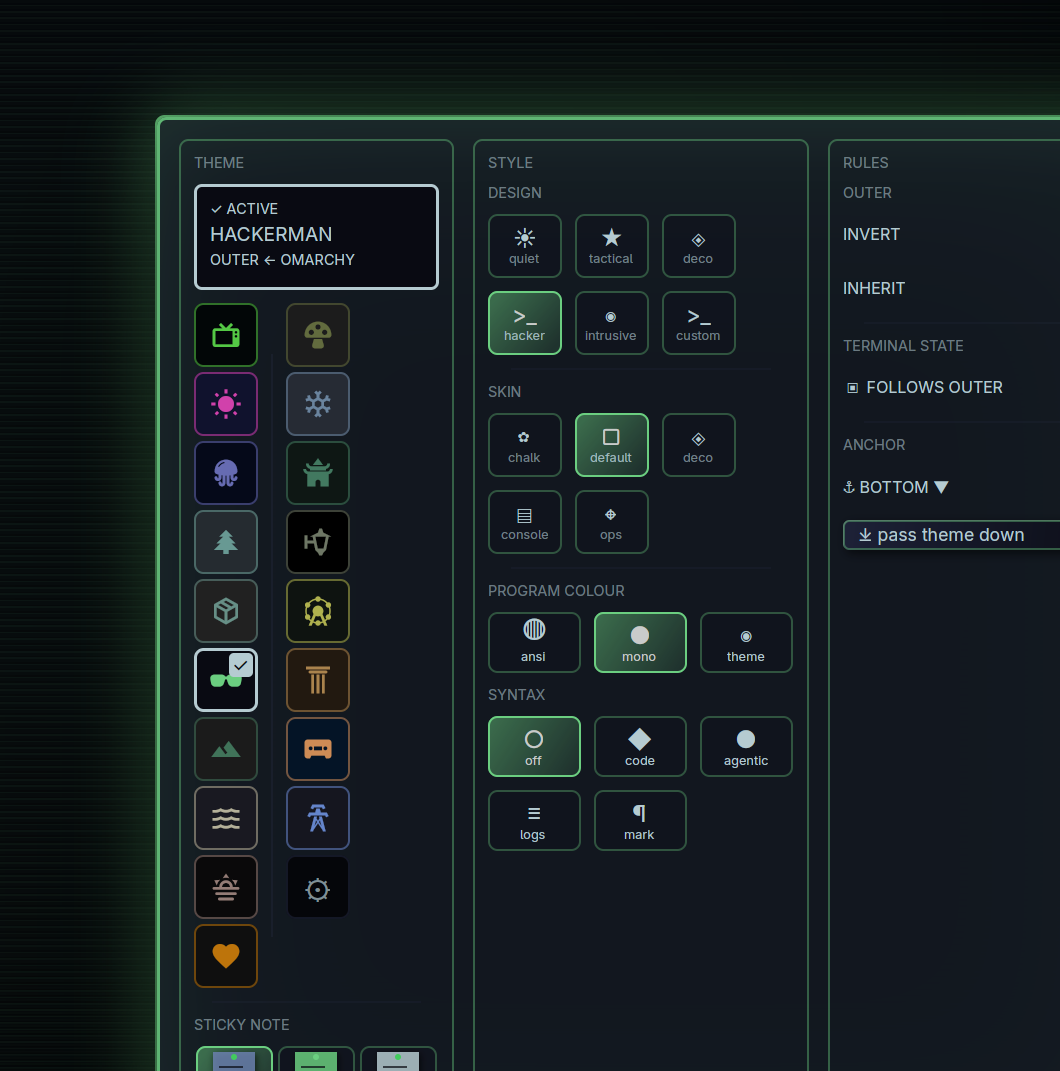
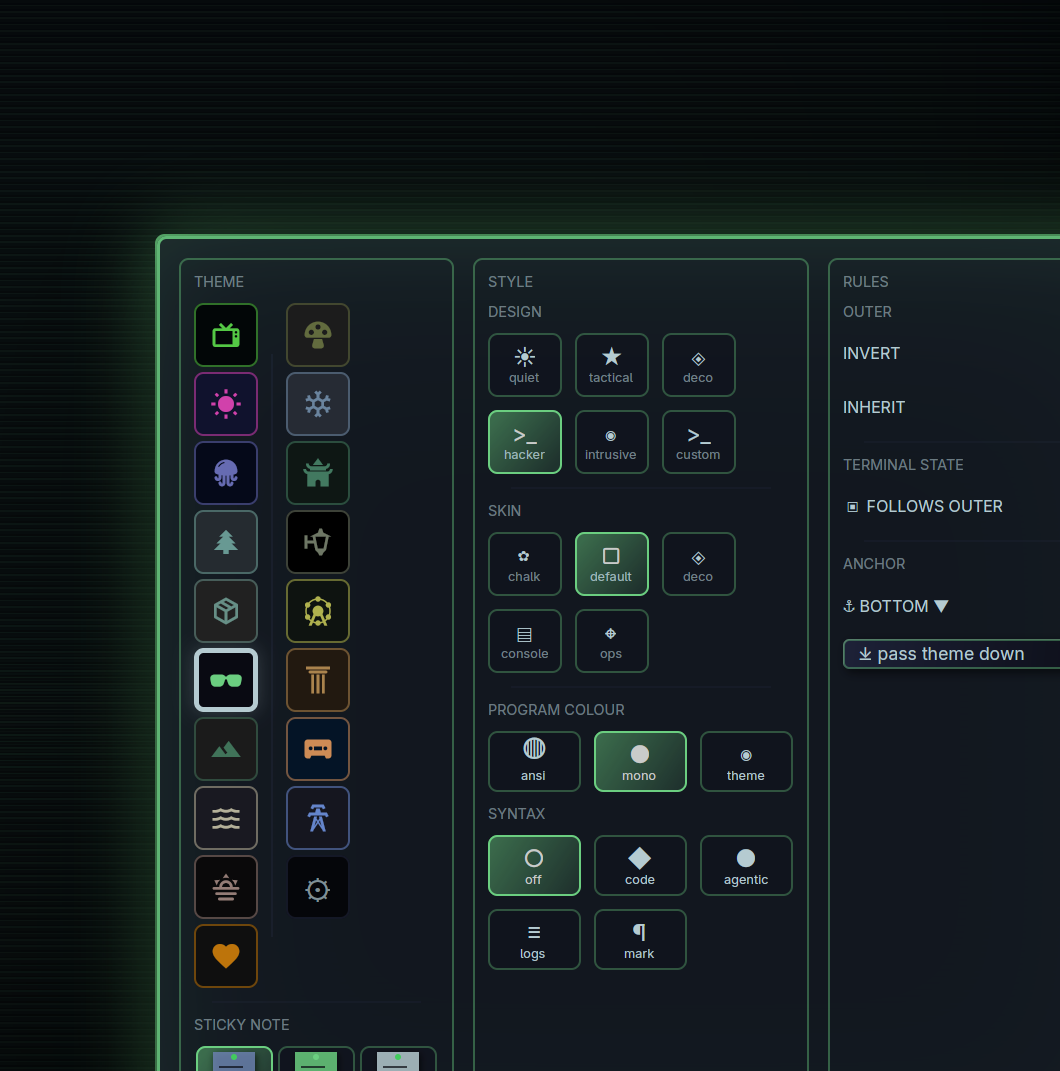
The active theme is marked by its border and material depth
The palette uses a 3px border and a restrained phosphor halo for the running theme. Chalk replaces the halo with a deeper contact shadow. The original grid dimensions are restored.

The added active-theme summary and check badges made a simple selection too conspicuous and cluttered the menu. Parker asked for the existing tile itself to carry the state through a thicker edge and light glow, with depth as the Chalk equivalent.

Removed the summary, badges, summary-only translations and naming code. The shared palette resolver and inheritance regressions remain, so the marker still follows the actual theme at the edited level. Native captures cover both materials and inherited or independent selections; 2,475 native tests and strict Clippy pass.

diff --git a/app/src/main.rs b/app/src/main.rs
@@ -1656,9 +1656,7 @@ fn tray_panel_h_est() -> f32 {
         theme::ColorMode::ALL.len(),
         theme::SyntaxScheme::ALL.len() + 1,
     ) + 2. * TRAY_AREA_PAD;
-    let themes = 66.
-        + TRAY_GAP
-        + 10. * 40.
+    let themes = 10. * 40.
         + 9. * TRAY_GLYPH_GAP
         + 2. * TRAY_LABEL_H
         + TRAY_SEP
@@ -26444,7 +26442,6 @@ enum PalettePreview {
 /// underneath an inherited desktop palette. An unnamed desktop stays unnamed.
 struct PaletteSelection {
     id: Option<String>,
-    name: String,
     custom: bool,
     desktop: bool,
 }
@@ -26461,31 +26458,8 @@ impl PaletteSelection {
             active.map(|p| p.id.clone())
         };
         let custom = active.is_none() && matches!(choice.dynamic, theme::Dynamic::Custom(_));
-        let name = if desktop {
-            palette::current_status(cx)
-                .1
-                .map(str::to_string)
-                .unwrap_or_else(|| {
-                    lang::current()
-                        .strings()
-                        .ui
-                        .pal_name_unavailable
-                        .to_string()
-                })
-        } else if let Some(p) = active {
-            p.id.clone()
-        } else if !choice.dynamic.is_plain() {
-            choice.dynamic.label().to_string()
-        } else {
-            theme::all_themes(cx)
-                .into_iter()
-                .find(|(id, _, _)| id == &choice.id)
-                .map(|(_, _, label)| label)
-                .unwrap_or_else(|| "custom".to_string())
-        };
         Self {
             id,
-            name: name.replace('-', " ").to_uppercase(),
             custom,
             desktop,
         }
@@ -28518,44 +28492,6 @@ impl Render for Workspace {
                 MenuScope::Outer => false,
             };
             let selection = PaletteSelection::of(cx, &cur);
-            let running = match &scope {
-                MenuScope::Pane(p) => p.read(cx).resolved_theme(cx),
-                MenuScope::Outer => (*theme::theme(cx)).clone(),
-            };
-            let mut source = if following {
-                format!("{} ← {}", t.scope_pane, t.scope_outer)
-            } else if cur.follow_omarchy == Some(true) {
-                if is_pane { t.scope_pane } else { t.scope_outer }.to_string()
-            } else {
-                format!(
-                    "{} · {}",
-                    if is_pane { t.scope_pane } else { t.scope_outer },
-                    t.ui.pal_source_own
-                )
-            };
-            if cur.follow_omarchy == Some(true) {
-                source.push_str(" ← OMARCHY");
-                if !palette::current_status(cx).0 {
-                    source.push_str(" · ");
-                    source.push_str(if selection.desktop {
-                        t.ui.pal_source_last_good
-                    } else {
-                        t.ui.pal_source_unavailable
-                    });
-                }
-            }
-            if let MenuScope::Pane(p) = &scope {
-                if following
-                    && pane::agent_tint()
-                    && running.accent != theme::resolve(cx, &cur).accent
-                {
-                    source.push_str(&format!(
-                        " · {}: {}",
-                        t.ui.pal_hdr_terminal_state,
-                        p.read(cx).mode.label_i18n()
-                    ));
-                }
-            }
             // THEME picker (retained — hacker/custom/quiet/tactical are the base
             // theming). The dynamics glyph column is an orthogonal dimension
             // layered on top of whichever theme is active here.
@@ -28943,8 +28879,8 @@ impl Render for Workspace {
             // tile is lit.
             let mut chips = palette::chips(cx);
             // A running theme hidden from Omarchy's picker still needs a marker.
-            // Uninstalled themes remain named in the summary, not offered as a
-            // tile that would discard retained colours when clicked.
+            // Never offer an uninstalled theme as a tile that would discard
+            // retained colours when clicked.
             if let Some(id) = &selection.id {
                 if !chips.iter().any(|c| &c.id == id) {
                     if let Some(p) = palette::find(cx, id) {
@@ -29043,23 +28979,28 @@ impl Render for Workspace {
                             .child(theme::Dynamic::Custom(Box::default()).glyph()),
                     };
                     let tile = tile.when(active, |d| {
-                        d.child(
-                            div()
-                                .absolute()
-                                .top(px(1.))
-                                .right(px(1.))
-                                .w(px(15.))
-                                .h(px(15.))
-                                .flex()
-                                .items_center()
-                                .justify_center()
-                                .rounded(px(3.))
-                                .bg(th.text)
-                                .text_color(th.bg)
-                                .text_size(px(12.))
-                                .font_weight(gpui::FontWeight::BOLD)
-                                .child("✓"),
-                        )
+                        let d = d.border(px(3.)).border_color(th.text);
+                        if sk.shape.material == skin::Material::Paper {
+                            d.shadow(paper::shadows_with(paper::Stock {
+                                lift: (sk.m.lift * 1.5).min(2.),
+                                ..Default::default()
+                            }))
+                        } else {
+                            d.shadow(
+                                theme::phosphor(
+                                    th.grade.phosphor,
+                                    BoxShadow {
+                                        color: th.text.alpha(0.22),
+                                        offset: gpui::point(px(0.), px(0.)),
+                                        blur_radius: px(6.),
+                                        spread_radius: px(0.),
+                                        inset: false,
+                                    },
+                                )
+                                .into_iter()
+                                .collect(),
+                            )
+                        }
                     });
                     let (name, preview) = if let Some(c) = chip {
                         (
@@ -29111,33 +29052,7 @@ impl Render for Workspace {
                     .map(|d| sk.finish(d))
                     .child(label(title))
             };
-            let current_theme = div()
-                .id("palette-current-theme")
-                .min_h(px(66.))
-                .p_2()
-                .flex()
-                .flex_col()
-                .gap_1()
-                .bg(running.bg)
-                .text_color(running.text)
-                .border_2()
-                .border_color(running.text)
-                .rounded(sk.rad_raw(5.))
-                .child(
-                    div()
-                        .text_size(sk.text_px(9.))
-                        .font_weight(gpui::FontWeight::BOLD)
-                        .child(format!("✓ {}", t.ui.pal_current)),
-                )
-                .child(
-                    div()
-                        .text_size(sk.text_px(12.))
-                        .font_weight(gpui::FontWeight::BOLD)
-                        .child(selection.name),
-                )
-                .child(div().text_size(sk.text_px(9.)).child(source));
             let themes = area(t.ui.pal_hdr_theme, glyph_col_w)
-                .child(current_theme)
                 .child(dyn_cols)
                 .child(hsep())
                 .child(label(t.t_note))

diff --git a/app/src/lang/chrome.rs b/app/src/lang/chrome.rs
@@ -465,12 +465,6 @@ pub struct Chrome {
     pub pal_tip_custom: &'static str,
     /// Title of the left area (palette grid + sticky-note paper).
     pub pal_hdr_theme: &'static str,
-    /// Running palette summary above the theme grid.
-    pub pal_current: &'static str,
-    pub pal_source_own: &'static str,
-    pub pal_source_last_good: &'static str,
-    pub pal_source_unavailable: &'static str,
-    pub pal_name_unavailable: &'static str,
     /// Title of the middle area (design, skin, program colour, syntax).
     pub pal_hdr_style: &'static str,
     /// Sub-heading above the chrome-skin buttons (window scope only).
@@ -877,11 +871,6 @@ pub const EN: Chrome = Chrome {
     pal_help_inherit: "Follow Omarchy's selected theme.",
     pal_tip_custom: "CUSTOM",
     pal_hdr_theme: "THEME",
-    pal_current: "ACTIVE",
-    pal_source_own: "OWN THEME",
-    pal_source_last_good: "last good",
-    pal_source_unavailable: "unavailable",
-    pal_name_unavailable: "name unavailable",
     pal_hdr_style: "STYLE",
     pal_hdr_skin: "SKIN",
     pal_hdr_rules: "RULES",
@@ -1202,11 +1191,6 @@ pub const ES: Chrome = Chrome {
     pal_help_inherit: "Seguir el tema seleccionado en Omarchy.",
     pal_tip_custom: "PERSONALIZADO",
     pal_hdr_theme: "TEMA",
-    pal_current: "ACTIVO",
-    pal_source_own: "TEMA PROPIO",
-    pal_source_last_good: "último válido",
-    pal_source_unavailable: "sin datos",
-    pal_name_unavailable: "nombre no disponible",
     pal_hdr_style: "ESTILO",
     pal_hdr_skin: "SKIN",
     pal_hdr_rules: "REGLAS",
@@ -1527,11 +1511,6 @@ pub const DE: Chrome = Chrome {
     pal_help_inherit: "Dem gewählten Omarchy-Theme folgen.",
     pal_tip_custom: "EIGENES",
     pal_hdr_theme: "THEME",
-    pal_current: "AKTIV",
-    pal_source_own: "EIGENES THEMA",
-    pal_source_last_good: "zuletzt gültig",
-    pal_source_unavailable: "nicht verfügbar",
-    pal_name_unavailable: "Name nicht verfügbar",
     pal_hdr_style: "STIL",
     pal_hdr_skin: "SKIN",
     pal_hdr_rules: "REGELN",
@@ -1852,11 +1831,6 @@ pub const FR: Chrome = Chrome {
     pal_help_inherit: "Suivre le thème sélectionné dans Omarchy.",
     pal_tip_custom: "PERSONNALISÉ",
     pal_hdr_theme: "THÈME",
-    pal_current: "ACTIF",
-    pal_source_own: "THÈME PROPRE",
-    pal_source_last_good: "dernier valide",
-    pal_source_unavailable: "indisponible",
-    pal_name_unavailable: "nom indisponible",
     pal_hdr_style: "STYLE",
     pal_hdr_skin: "HABILLAGE",
     pal_hdr_rules: "RÈGLES",
@@ -2177,11 +2151,6 @@ pub const RU: Chrome = Chrome {
     pal_help_inherit: "Следовать выбранной теме Omarchy.",
     pal_tip_custom: "СВОЯ",
     pal_hdr_theme: "ТЕМА",
-    pal_current: "АКТИВНА",
-    pal_source_own: "СВОЯ ТЕМА",
-    pal_source_last_good: "последняя рабочая",
-    pal_source_unavailable: "недоступно",
-    pal_name_unavailable: "название недоступно",
     pal_hdr_style: "СТИЛЬ",
     pal_hdr_skin: "СКИН",
     pal_hdr_rules: "ПРАВИЛА",
@@ -2502,11 +2471,6 @@ pub const ZH: Chrome = Chrome {
     pal_help_inherit: "跟随 Omarchy 中选定的主题。",
     pal_tip_custom: "自定义",
     pal_hdr_theme: "主题",
-    pal_current: "当前",
-    pal_source_own: "独立主题",
-    pal_source_last_good: "上次有效",
-    pal_source_unavailable: "不可用",
-    pal_name_unavailable: "名称不可用",
     pal_hdr_style: "样式",
     pal_hdr_skin: "皮肤",
     pal_hdr_rules: "规则",
@@ -2827,11 +2791,6 @@ pub const JA: Chrome = Chrome {
     pal_help_inherit: "Omarchy で選択したテーマに追従します。",
     pal_tip_custom: "カスタム",
     pal_hdr_theme: "テーマ",
-    pal_current: "使用中",
-    pal_source_own: "独自テーマ",
-    pal_source_last_good: "前回の有効値",
-    pal_source_unavailable: "取得不可",
-    pal_name_unavailable: "名前を取得できません",
     pal_hdr_style: "スタイル",
     pal_hdr_skin: "スキン",
     pal_hdr_rules: "ルール",
@@ -3152,11 +3111,6 @@ pub const KO: Chrome = Chrome {
     pal_help_inherit: "Omarchy에서 선택한 테마를 따릅니다.",
     pal_tip_custom: "커스텀",
     pal_hdr_theme: "테마",
-    pal_current: "사용 중",
-    pal_source_own: "독립 테마",
-    pal_source_last_good: "최근 유효값",
-    pal_source_unavailable: "조회 불가",
-    pal_name_unavailable: "이름 조회 불가",
     pal_hdr_style: "스타일",
     pal_hdr_skin: "스킨",
     pal_hdr_rules: "규칙",
@@ -3477,11 +3431,6 @@ pub const HI: Chrome = Chrome {
     pal_help_inherit: "Omarchy में चुनी थीम अपनाएँ।",
     pal_tip_custom: "कस्टम",
     pal_hdr_theme: "थीम",
-    pal_current: "सक्रिय",
-    pal_source_own: "अपनी थीम",
-    pal_source_last_good: "पिछली मान्य",
-    pal_source_unavailable: "उपलब्ध नहीं",
-    pal_name_unavailable: "नाम उपलब्ध नहीं",
     pal_hdr_style: "शैली",
     pal_hdr_skin: "स्किन",
     pal_hdr_rules: "नियम",

diff --git a/app/src/palette/current/tests.rs b/app/src/palette/current/tests.rs
@@ -284,7 +284,6 @@ fn palette_menu_marks_the_running_theme_at_each_inheritance_level(cx: &mut gpui:
     cx.update(|cx| {
         let selected = crate::PaletteSelection::of(cx, &linked);
         assert_eq!(selected.id.as_deref(), Some("gruvbox"));
-        assert_eq!(selected.name, "GRUVBOX");
     });
     fs::remove_file(roots.primary.join("current/theme/colors.toml")).unwrap();
     tick(cx);
@@ -347,14 +346,6 @@ fn palette_menu_keeps_unnamed_and_unavailable_sources_distinct(cx: &mut gpui::Te
             "valid unnamed colours cannot identify a theme tile"
         );
         assert!(!selected.custom, "the parked custom palette is not running");
-        assert_eq!(
-            selected.name,
-            crate::lang::current()
-                .strings()
-                .ui
-                .pal_name_unavailable
-                .to_uppercase()
-        );
         assert_eq!(
             theme::resolve(cx, &custom).bg,
             theme::parse_hex("#334455").unwrap()

diff --git a/CHANGELOG.md b/CHANGELOG.md
@@ -595,10 +595,9 @@ the changes you may notice in the first hour.
 
 ### Fixed
 
-- The palette menu names the running theme, marks its tile with a check badge,
-  and shows its inheritance source at the pane or outer-window level. Following
-  Omarchy no longer leaves every theme tile unmarked; unavailable sources show
-  the retained theme or manual fallback actually supplying the colours.
+- The palette marks the running theme with a thicker border and a subtle
+  phosphor glow; Chalk gives the selected tile more depth. The marker follows
+  the actual pane or outer-window theme, including inherited Omarchy colours.
 
 - **The OPS skin no longer crashes the window.** A cut-cornered panel that was
   laid out at no size for a frame, as one is while it opens or collapses, made
